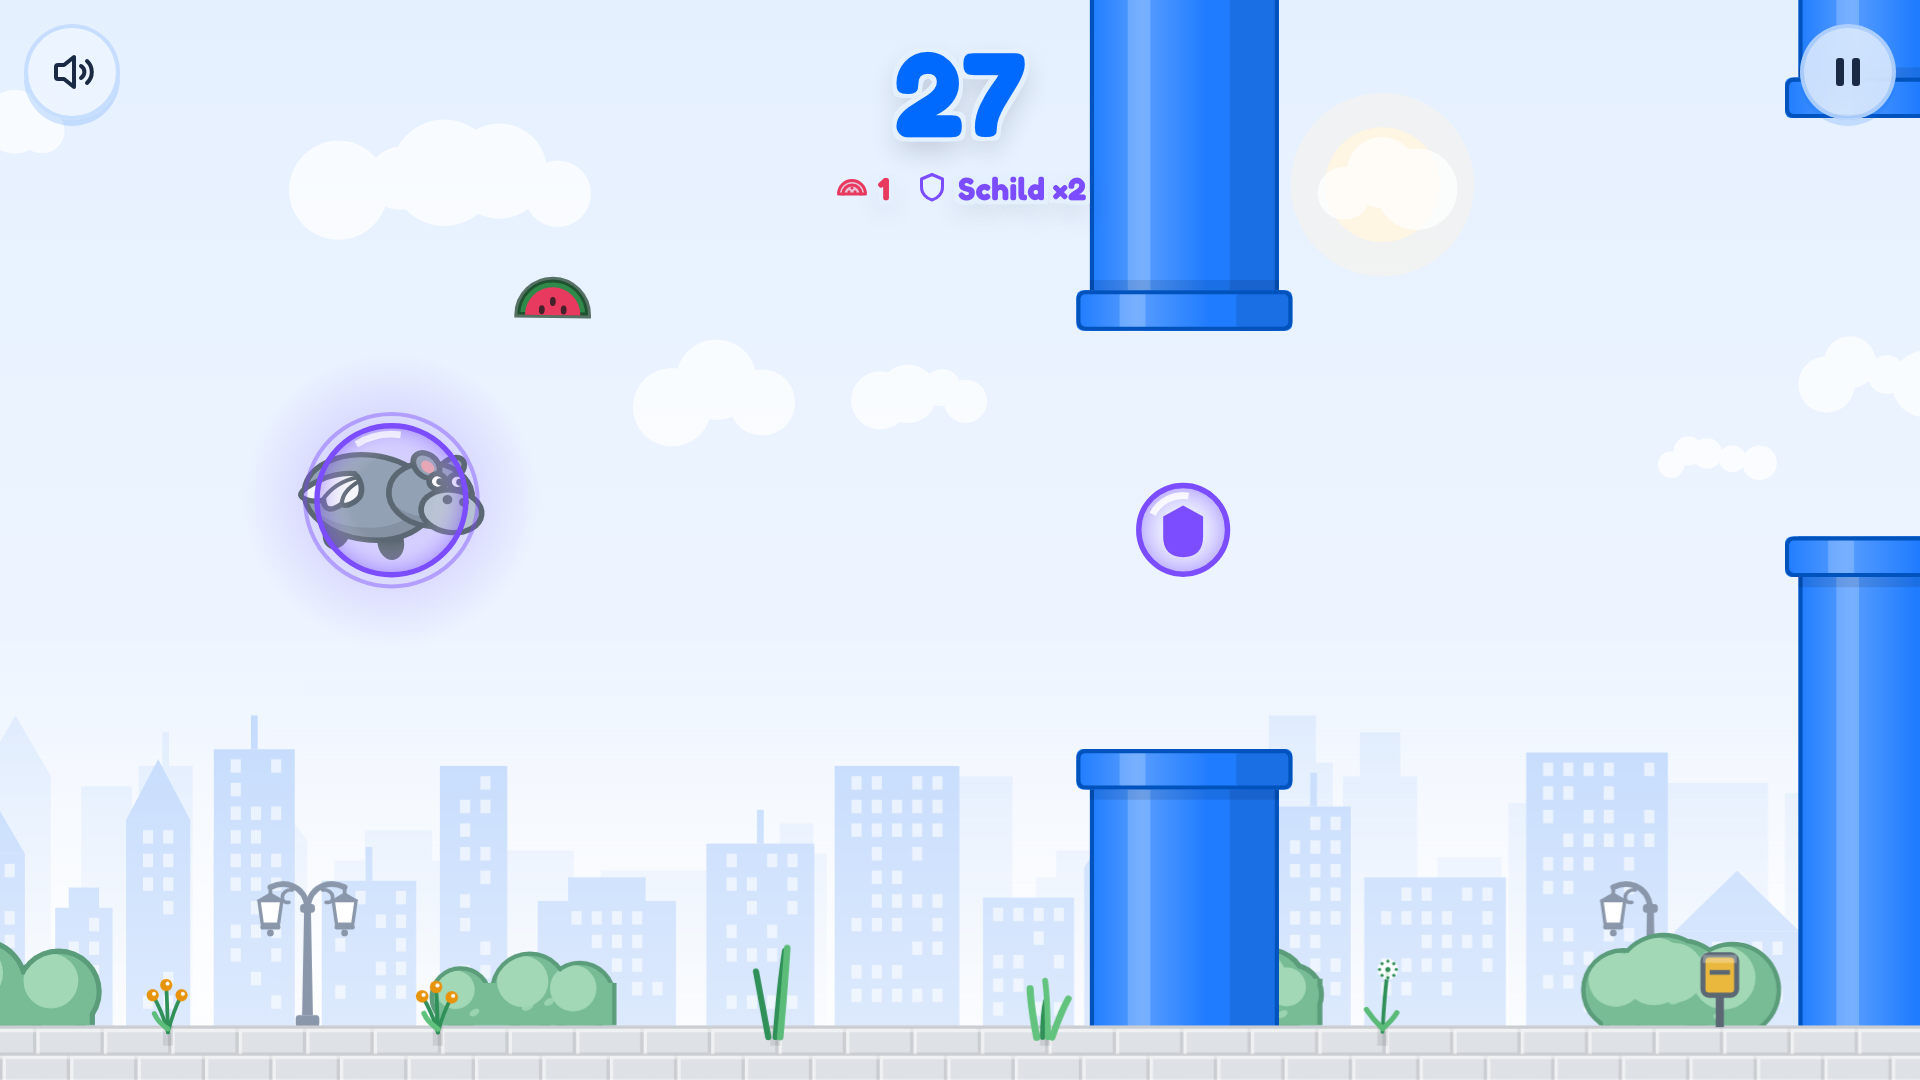
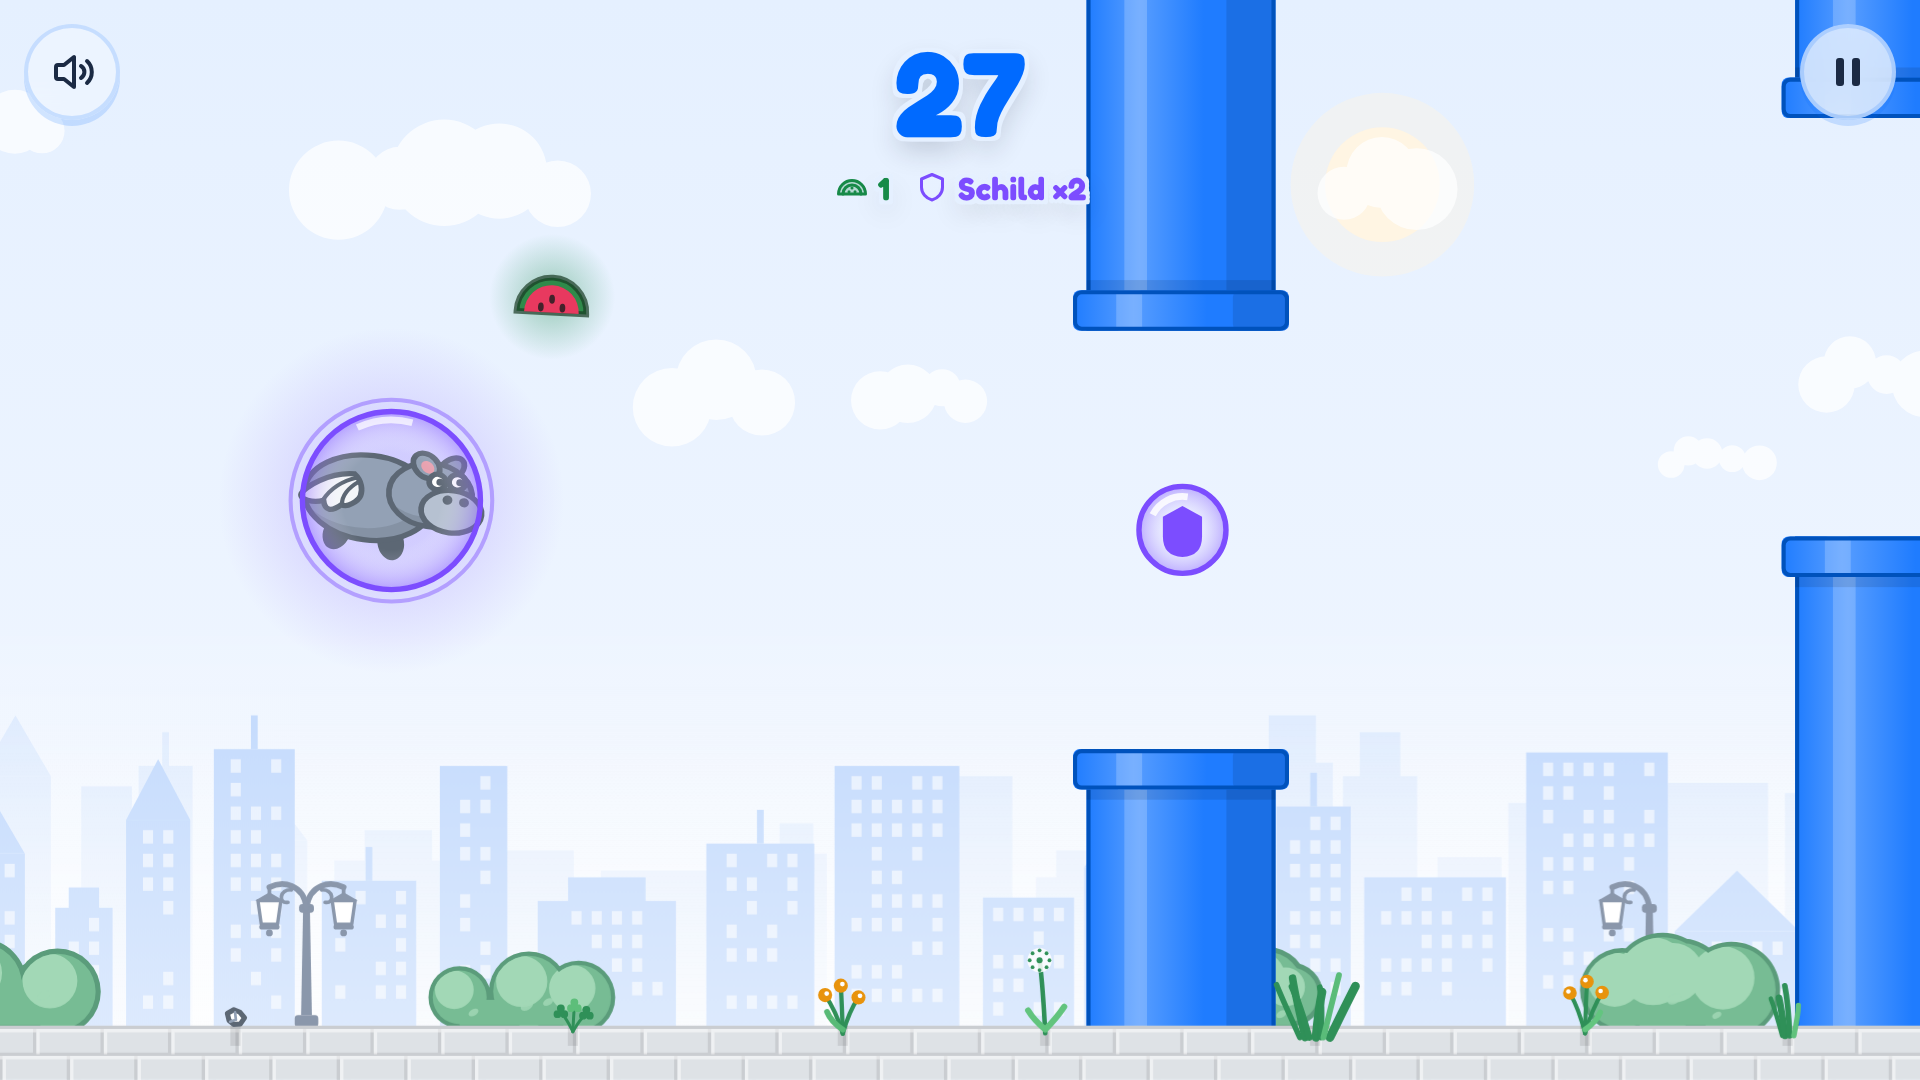
Recolour melons and keep them reachable

diff --git a/src/game/state.test.ts b/src/game/state.test.ts
@@ -1,9 +1,9 @@
 import assert from 'node:assert/strict'
 import { mock, test } from 'node:test'
-import { FLAP_VELOCITY, HIPPO_RADIUS, MAX_SHIELDS, MELON_POINTS, PIPE_WIDTH } from './constants.ts'
+import { FLAP_VELOCITY, HIPPO_RADIUS, MAX_SHIELDS, MELON_POINTS, MELON_REACH, PIPE_WIDTH } from './constants.ts'
 import { difficultyById } from './difficulty.ts'
 import { advance, flap, hasCollision, initialState } from './state.ts'
-import type { GameEvent, GameState, Pipe } from './types.ts'
+import type { GameEvent, GameState, Pickup, Pipe } from './types.ts'
 import { fitWorld } from './world.ts'
 
 const world = fitWorld(390, 780)
@@ -139,13 +139,16 @@ test('shield pickups stack, one charge each', () => {
 /**
  * Runs the spawner for a while with the hippo out of harm's way: every pipe is recorded as it
  * appears, then widened and re-centred so the round keeps going and the survey stays honest.
+ * Every melon is recorded with the gap of the pipe it was spawned with.
  */
 function surveySpawns(frames: number) {
   const state = initialState({ world, difficulty: normal, best: 0 })
   state.phase = 'running'
   state.pipes = []
   const seen = new Set<Pipe>()
+  const seenPickups = new Set<Pickup>()
   const spawns: { at: number; gapY: number; half: number }[] = []
+  const melons: { y: number; gapY: number }[] = []
   for (let i = 0; i < frames; i++) {
     state.hippoY = world.groundY / 2
     state.velocity = 0
@@ -157,9 +160,23 @@ function surveySpawns(frames: number) {
       pipe.gapY = state.hippoY
       pipe.half = 150
     }
+    for (const pickup of state.pickups) {
+      if (seenPickups.has(pickup)) continue
+      seenPickups.add(pickup)
+      if (pickup.kind === 'melon') melons.push({ y: pickup.y, gapY: spawns[spawns.length - 1].gapY })
+    }
   }
-  return { state, spawns }
+  return { state, spawns, melons }
 }
+
+test('melons hang within reach of the gap they are spawned with', () => {
+  const { melons } = surveySpawns(3000)
+  assert.ok(melons.length >= 5, `melons seen: ${melons.length}`)
+  for (const { y, gapY } of melons) {
+    assert.ok(Math.abs(y - gapY) <= normal.jump[1] * MELON_REACH + 1e-9, `melon at ${y} for a gap at ${gapY}`)
+    assert.ok(y > 0 && y < world.groundY)
+  }
+})
 
 test('pipes keep spawning within the difficulty spacing range', () => {
   const { spawns } = surveySpawns(1200)

diff --git a/src/game/audio.ts b/src/game/audio.ts
@@ -91,13 +91,14 @@ export function createSfx(initiallyMuted = false): Sfx {
 
   function hit(
     context: AudioContext,
-    opts: { duration: number; gain: number; cutoff: number; at?: number },
+    opts: { duration: number; gain: number; cutoff: number; at?: number; type?: BiquadFilterType; q?: number },
   ): void {
     const start = context.currentTime + (opts.at ?? 0)
     const source = context.createBufferSource()
     source.buffer = noiseBuffer(context)
     const filter = context.createBiquadFilter()
-    filter.type = 'lowpass'
+    filter.type = opts.type ?? 'lowpass'
+    if (opts.q !== undefined) filter.Q.value = opts.q
     filter.frequency.setValueAtTime(opts.cutoff, start)
     filter.frequency.exponentialRampToValueAtTime(Math.max(opts.cutoff * 0.2, 120), start + opts.duration)
     const gain = context.createGain()
@@ -144,8 +145,23 @@ export function createSfx(initiallyMuted = false): Sfx {
           hit(context, { duration: 0.12, gain: 0.08, cutoff: 3200 })
           return
         case 'crash':
-          tone(context, { type: 'sawtooth', from: 220, to: 60, duration: 0.42, gain: 0.2 })
-          hit(context, { duration: 0.34, gain: 0.18, cutoff: 1200 })
+          // Glass going: a thud, a bright burst of noise, and shards ringing off at random
+          // pitches, a few of them landing late.
+          tone(context, { type: 'sine', from: 150, to: 45, duration: 0.2, gain: 0.3 })
+          hit(context, { duration: 0.12, gain: 0.12, cutoff: 900 })
+          hit(context, { duration: 0.38, gain: 0.3, cutoff: 5200, type: 'bandpass', q: 0.8 })
+          for (let i = 0; i < 9; i++) {
+            const late = i >= 6
+            const from = 2200 + Math.random() * 6800
+            tone(context, {
+              type: 'sine',
+              from,
+              to: from * 0.96,
+              duration: 0.05 + Math.random() * 0.1,
+              gain: late ? 0.035 : 0.07,
+              at: late ? 0.26 + Math.random() * 0.2 : Math.random() * 0.14,
+            })
+          }
           return
         case 'milestone':
           ;[784, 988, 1175, 1568].forEach((f, i) =>

diff --git a/src/game/render/hippo.ts b/src/game/render/hippo.ts
@@ -2,6 +2,9 @@ import { HIPPO_DRAW_SCALE, HIPPO_OUTLINE, HIPPO_RADIUS, INNER_LINE } from '../co
 import type { Palette } from '../types.ts'
 import { drawEllipse, drawShadedEllipse } from './shapes.ts'
 
+/** The bubble's radius: the drawn hippo, snout and feet included, with a little air around it. */
+const BUBBLE_RADIUS = HIPPO_RADIUS + 13
+
 export interface HippoPose {
   x: number
   y: number
@@ -113,7 +116,7 @@ export function drawHippo(
 
 /** A soft violet halo behind a shielded hippo: "this one can take a hit", visible at a glance. */
 function drawGlow(ctx: CanvasRenderingContext2D, p: Palette, pose: HippoPose): void {
-  const r = (HIPPO_RADIUS + 9) * 1.9
+  const r = BUBBLE_RADIUS * 1.9
   const glow = ctx.createRadialGradient(pose.x, pose.y, HIPPO_RADIUS, pose.x, pose.y, r)
   glow.addColorStop(0, p.bubble)
   glow.addColorStop(1, 'rgba(124, 77, 255, 0)')
@@ -127,7 +130,7 @@ function drawGlow(ctx: CanvasRenderingContext2D, p: Palette, pose: HippoPose): v
 /** The bubble breaking: a ring that flashes out and fades, with a few splinters along it. */
 function drawCrack(ctx: CanvasRenderingContext2D, p: Palette, pose: HippoPose): void {
   const t = pose.pop
-  const r = HIPPO_RADIUS + 9 + t * 22
+  const r = BUBBLE_RADIUS + t * 22
   ctx.save()
   ctx.translate(pose.x, pose.y)
   ctx.globalAlpha = (1 - t) * 0.9
@@ -158,7 +161,7 @@ function drawBubble(
   // Grows in with a little overshoot when just picked up (ease-out-back).
   const t = Math.min(Math.max(pose.shieldIn, 0), 1) - 1
   const grow = 1 + 2.70158 * t * t * t + 1.70158 * t * t
-  const r = (HIPPO_RADIUS + 9 + Math.sin(now / 320) * 1.2) * Math.max(grow, 0.05)
+  const r = (BUBBLE_RADIUS + Math.sin(now / 320) * 1.2) * Math.max(grow, 0.05)
   ctx.save()
   ctx.translate(pose.x, pose.y)
   const skin = ctx.createRadialGradient(0, 0, r * 0.55, 0, 0, r)

diff --git a/src/game/palette.ts b/src/game/palette.ts
@@ -52,7 +52,8 @@ export function resolvePalette(dark: boolean): Palette {
     text: cssVar('--game-text', dark ? '#dde3ec' : '#1f2430'),
     brand,
     gold: cssVar('--game-gold', '#f5a524'),
-    melon: cssVar('--game-melon', dark ? '#ff7a9a' : '#e8395f'),
+    melon: cssVar('--game-melon', dark ? '#7fe0a0' : '#178a48'),
+    melonFlesh: dark ? '#ff7a9a' : '#e8395f',
     melonRind: '#2f8a4a',
     melonSeed: 'rgba(38, 30, 34, 0.85)',
     // The shield is the one violet thing in the game, so it can never be mistaken for a pipe.
@@ -69,10 +70,17 @@ export function resolvePalette(dark: boolean): Palette {
 
 /** Particle colours, keyed by the tint the simulation asked for. */
 export function tintColor(p: Palette, tint: 'melon' | 'bubble'): string {
-  return tint === 'melon' ? p.melon : p.bubble
+  return tint === 'melon' ? p.melonFlesh : p.bubble
 }
 
 /** A colour between two hex colours, `t` of the way from `a` to `b`. For variants of one thing. */
+/** `hex` (#rrggbb) at opacity `a`; anything else is returned as it is. */
+export function alpha(hex: string, a: number): string {
+  if (!/^#[0-9a-f]{6}$/i.test(hex)) return hex
+  const n = parseInt(hex.slice(1), 16)
+  return `rgba(${n >> 16}, ${(n >> 8) & 255}, ${n & 255}, ${a})`
+}
+
 export function mix(a: string, b: string, t: number): string {
   if (!/^#[0-9a-f]{6}$/i.test(a) || !/^#[0-9a-f]{6}$/i.test(b)) return a
   const pa = parseInt(a.slice(1), 16)

diff --git a/src/game/render/pickups.ts b/src/game/render/pickups.ts
@@ -1,4 +1,5 @@
 import { OUTLINE, PICKUP_RADIUS } from '../constants.ts'
+import { alpha } from '../palette.ts'
 import type { Palette, Pickup } from '../types.ts'
 
 export function drawPickups(
@@ -22,9 +23,17 @@ export function drawPickups(
   }
 }
 
-/** A melon wedge: green rind, pink flesh, three pips. Rocking gently on its flat side. */
+/**
+ * A melon wedge: green rind, pink flesh, three pips. Rocking gently on its flat side, in a
+ * soft glow of the melon green, as the shield orb has its violet.
+ */
 function drawMelon(ctx: CanvasRenderingContext2D, p: Palette, tilt: number): void {
   const r = PICKUP_RADIUS
+  const glow = ctx.createRadialGradient(0, 0, r * 0.4, 0, 0, r * 1.8)
+  glow.addColorStop(0, alpha(p.melon, 0.3))
+  glow.addColorStop(1, alpha(p.melon, 0))
+  ctx.fillStyle = glow
+  ctx.fillRect(-r * 1.8, -r * 1.8, r * 3.6, r * 3.6)
   ctx.rotate(tilt)
   ctx.lineWidth = OUTLINE + 0.3
   ctx.strokeStyle = 'rgba(24, 58, 36, 0.7)'
@@ -36,7 +45,7 @@ function drawMelon(ctx: CanvasRenderingContext2D, p: Palette, tilt: number): voi
   ctx.fill()
   ctx.stroke()
 
-  ctx.fillStyle = p.melon
+  ctx.fillStyle = p.melonFlesh
   ctx.beginPath()
   ctx.arc(0, r * 0.45, r - 2.4, Math.PI, Math.PI * 2)
   ctx.closePath()

diff --git a/src/game/state.ts b/src/game/state.ts
@@ -10,6 +10,7 @@ import {
   MAX_FALL_SPEED,
   MAX_SHIELDS,
   MELON_CHANCE,
+  MELON_REACH,
   MELON_POINTS,
   OVER_TITLES,
   PICKUP_RADIUS,
@@ -117,13 +118,17 @@ function spawnPickup(state: GameState, world: World, pipe: Pipe, tuning: Tuning)
     return
   }
   if (Math.random() >= MELON_CHANCE) return
-  // Melons hang in the open water between two pipes at any height: worth points, worth a detour,
-  // and sometimes worth leaving alone.
+  // Melons hang in the open water between two pipes, within reach of the gap just passed (the
+  // next gap is never further than a jump from it either): worth points, worth a detour, and
+  // sometimes worth leaving alone. On a tall field a melon anywhere would mostly be out of reach.
   const margin = PICKUP_RADIUS + GAP_MARGIN
+  const reach = tuning.jump * MELON_REACH
+  const low = Math.max(margin, pipe.gapY - reach)
+  const high = Math.min(world.groundY - margin, pipe.gapY + reach)
   state.pickups.push({
     kind: 'melon',
     x: pipe.x + tuning.spacing / 2,
-    y: margin + Math.random() * Math.max(world.groundY - 2 * margin, 0),
+    y: low + Math.random() * Math.max(high - low, 0),
     taken: false,
     seed: Math.random() * Math.PI * 2,
   })

diff --git a/src/styles.css b/src/styles.css
@@ -48,9 +48,9 @@
   --game-muted: #4f6a96;
   --game-gold: #e8930c;
   --game-gold-deep: #b86f00;
-  /* The shield's colour, and nothing else's. Likewise the melon's. */
+  /* The shield's colour, and nothing else's. Likewise the melon's: its rind, not its flesh. */
   --game-shield: #7c4dff;
-  --game-melon: #e8395f;
+  --game-melon: #178a48;
   /* Every modal — cards, sheet, toasts — shares this one frosted surface. */
   --game-glass: rgb(238 245 255 / 0.8);
   --game-glass-edge: rgb(0 106 255 / 0.16);
@@ -78,7 +78,7 @@
   --game-gold: #ffc65c;
   --game-gold-deep: #c98a1a;
   --game-shield: #c4b5fd;
-  --game-melon: #ff7a9a;
+  --game-melon: #7fe0a0;
   --game-glass: rgb(18 27 40 / 0.82);
   --game-glass-edge: rgb(140 185 255 / 0.22);
   --game-tile: rgb(255 255 255 / 0.06);

diff --git a/src/components/OverCard.tsx b/src/components/OverCard.tsx
@@ -81,7 +81,7 @@ export function OverCard({ snapshot, touch, onRestart, onOpenMenu }: OverCardPro
           )}
         </Stat>
         {snapshot.melons > 0 && (
-          <Stat icon={<IconMelon width={18} height={18} />} tone="brand">
+          <Stat icon={<IconMelon width={18} height={18} />} tone="melon">
             <span className="t-number">{snapshot.melons}</span>{' '}
             {snapshot.melons === 1 ? 'Melone' : 'Melonen'}
           </Stat>

diff --git a/src/game/constants.ts b/src/game/constants.ts
@@ -62,6 +62,8 @@ export const PICKUP_RADIUS = 11
 export const MELON_POINTS = 3
 /** Share of pipe slots that carry a melon, and the rarer shield. */
 export const MELON_CHANCE = 0.4
+/** How far above or below the last gap a melon may hang, as a share of the gap jump. */
+export const MELON_REACH = 0.75
 export const SHIELD_CHANCE = 0.07
 /** Pipes to clear before the first shield can appear. */
 export const SHIELD_EARLIEST_PIPE = 5

diff --git a/src/game/types.ts b/src/game/types.ts
@@ -153,7 +153,10 @@ export interface Palette {
   text: string
   brand: string
   gold: string
+  /** The melon's colour wherever it stands for melons: the counter, the glow, the points. */
   melon: string
+  /** The wedge's flesh and its juice. */
+  melonFlesh: string
   melonRind: string
   melonSeed: string
   bubble: string
